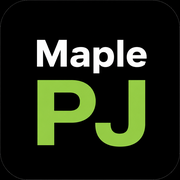
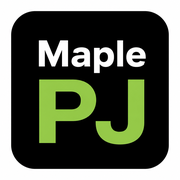
Add files via upload

diff --git a/service-worker.js b/service-worker.js
@@ -1,4 +1,4 @@
-const SHELL_CACHE = "private-journal-shell-v1.6.1-icon1";
+const SHELL_CACHE = "private-journal-shell-v1.6.1-icon2";
 const SHELL_FILES = [
   "./",
   "./index.html",
